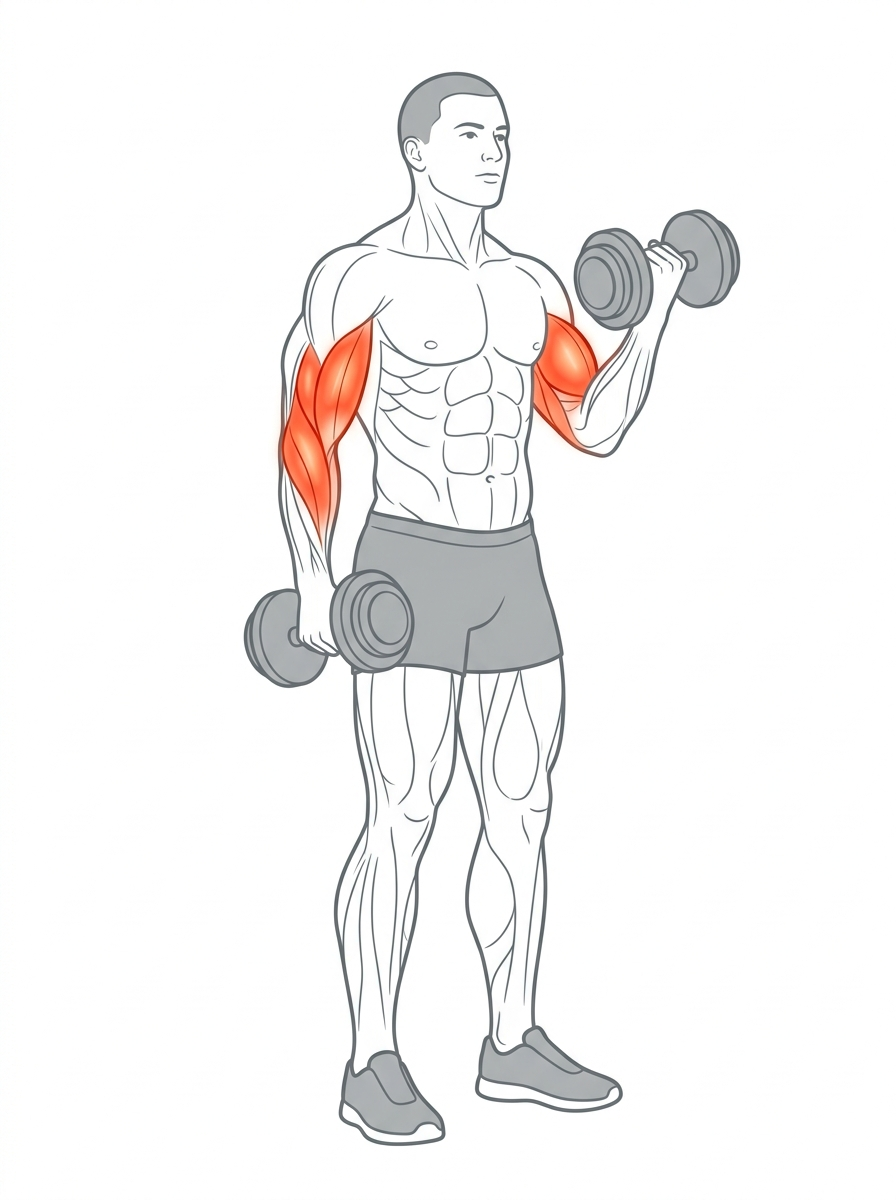
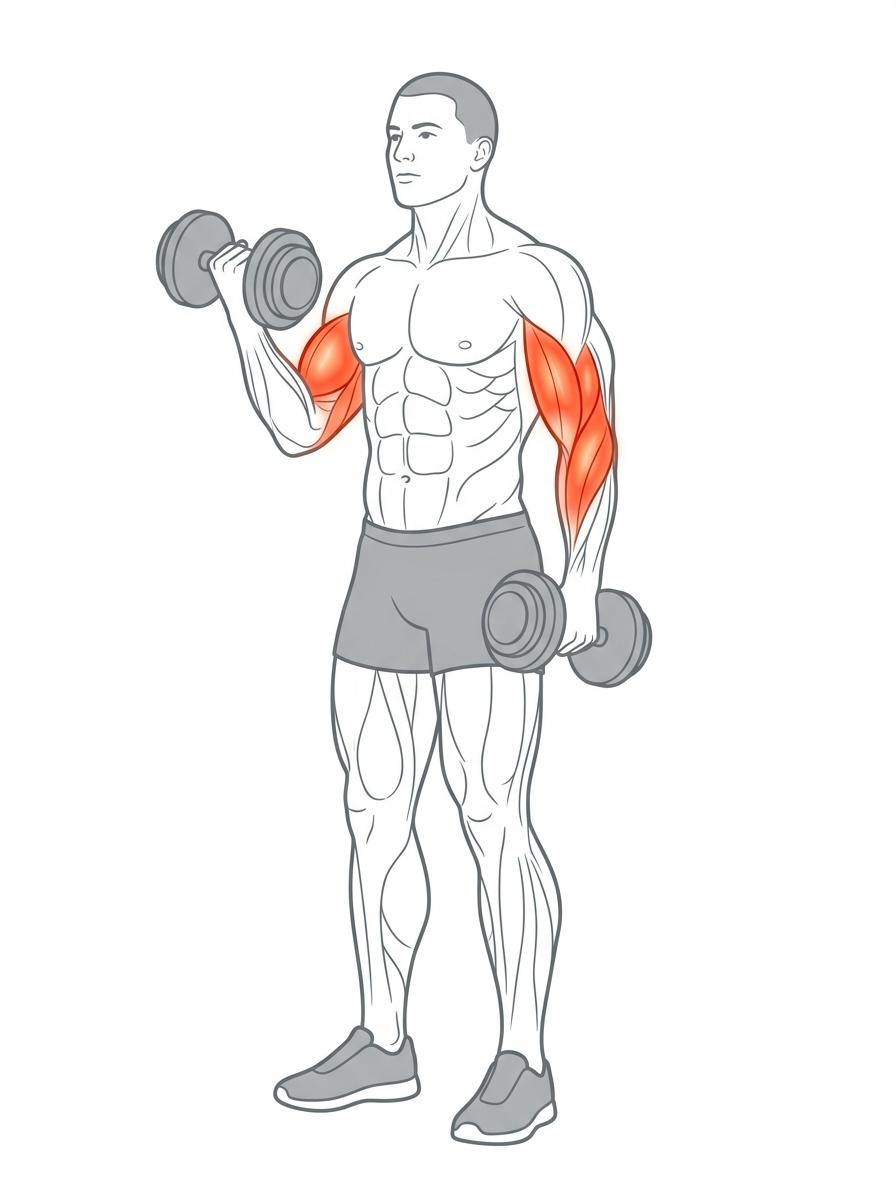
fix(exercises): eliminate all duplicate card images with dedicated anatomical illustrations and full-body variety order

Changed region(s): [[0.1562, 0.0617, 0.8438, 0.9558]]

diff --git a/components/GymHubModals.tsx b/components/GymHubModals.tsx
@@ -23,63 +23,15 @@ interface Exercise {
 
 const EXERCISES_DATA: Exercise[] = [
 	{
-		id: 'ex-bicep-1',
-		name: 'Dumbbell Biceps Curl',
-		muscle: 'Biceps',
-		target: 'Biceps Brachii (Short & Long Heads)',
-		setsReps: '4 Sets × 10–12 Reps',
-		equipment: 'Standing Free Weights / Dumbbells',
-		cue: 'Keep elbows tucked to ribs, curl smoothly without swinging torso, squeeze at top.',
-		level: 'Isolation',
-		image: '/exercises/dumbbell-bicep-curl.jpg',
-		biomechanicsId: 'bicep-curl'
-	},
-	{
-		id: 'ex-bicep-2',
-		name: 'Dumbbell Seated Curl',
-		muscle: 'Biceps',
-		target: 'Biceps Brachii Peak & Brachialis',
-		setsReps: '4 Sets × 10–12 Reps',
-		equipment: 'Utility Flat Bench + Heavy Dumbbells',
-		cue: 'Seated posture eliminates cheat momentum. Supinate wrists as you reach peak contraction.',
-		level: 'Isolation',
-		image: '/exercises/dumbbell-seated-curl.jpg',
-		biomechanicsId: 'bicep-curl'
-	},
-	{
-		id: 'ex-tricep-1',
-		name: 'Cable Single Arm Triceps Pushdown',
-		muscle: 'Triceps',
-		target: 'Triceps Brachii (Lateral & Medial Heads)',
-		setsReps: '4 Sets × 12–15 Reps',
-		equipment: 'Single Cable Pulley + Ergonomic Grip',
-		cue: 'Pin elbow firmly beside torso, drive handle downward to complete elbow extension.',
-		level: 'Isolation',
-		image: '/exercises/cable-tricep-pushdown.jpg',
-		biomechanicsId: 'tricep-pushdown'
-	},
-	{
-		id: 'ex-bicep-3',
-		name: 'Alternate Biceps Curl',
-		muscle: 'Biceps',
-		target: 'Biceps Brachii Hypertrophy',
-		setsReps: '4 Sets × 8–10 Reps',
-		equipment: 'Standing Dumbbells',
-		cue: 'Alternate arms deliberately, giving 100% focus and mind-muscle connection per side.',
-		level: 'Isolation',
-		image: '/exercises/alternate-bicep-curl.jpg',
-		biomechanicsId: 'bicep-curl'
-	},
-	{
 		id: 'ex-chest-1',
-		name: 'Incline Dumbbell Press',
+		name: 'Barbell Flat Bench Press',
 		muscle: 'Chest',
-		target: 'Clavicular Upper Pecs',
-		setsReps: '4 Sets × 8–10 Reps',
-		equipment: '30° Incline Bench, Heavy DBs',
-		cue: 'Retract scapula, keep elbows angled at 45°, feel deep eccentric stretch without bouncing.',
-		level: 'Heavy Mass',
-		image: '/exercises/card-incline-press.jpg',
+		target: 'Sternal Mid & Lower Pecs',
+		setsReps: '4 Sets × 6–8 Reps',
+		equipment: 'Olympic Barbell & Flat Bench',
+		cue: 'Drive feet into platform, touch lower sternum, and press explosively while maintaining scapular retraction.',
+		level: 'Compound',
+		image: '/exercises/card-flat-bench-press.jpg',
 		biomechanicsId: 'incline-press'
 	},
 	{
@@ -119,52 +71,100 @@ const EXERCISES_DATA: Exercise[] = [
 		biomechanicsId: 'shoulder-press'
 	},
 	{
-		id: 'ex-chest-2',
-		name: 'Barbell Flat Bench Press',
-		muscle: 'Chest',
-		target: 'Sternal Mid & Lower Pecs',
-		setsReps: '4 Sets × 6–8 Reps',
-		equipment: 'Olympic Barbell & Bench',
-		cue: 'Drive feet into platform, touch lower sternum and press explosively.',
-		level: 'Compound',
-		image: '/exercises/card-incline-press.jpg',
-		biomechanicsId: 'incline-press'
+		id: 'ex-bicep-1',
+		name: 'Dumbbell Biceps Curl',
+		muscle: 'Biceps',
+		target: 'Biceps Brachii (Short & Long Heads)',
+		setsReps: '4 Sets × 10–12 Reps',
+		equipment: 'Standing Free Weights / Dumbbells',
+		cue: 'Keep elbows tucked to ribs, curl smoothly without swinging torso, squeeze at top.',
+		level: 'Isolation',
+		image: '/exercises/dumbbell-bicep-curl.jpg',
+		biomechanicsId: 'bicep-curl'
 	},
 	{
-		id: 'ex-tricep-2',
-		name: 'Cable Tricep Rope Pushdown',
+		id: 'ex-tricep-1',
+		name: 'Cable Single Arm Triceps Pushdown',
 		muscle: 'Triceps',
-		target: 'Triceps Horseshoe Lateral Head',
+		target: 'Triceps Brachii (Lateral & Medial Heads)',
 		setsReps: '4 Sets × 12–15 Reps',
-		equipment: 'Cable Pulley Tower + Dual Knot Rope',
-		cue: 'Flare rope ends outward at bottom lockout for intense lateral head squeeze.',
+		equipment: 'Single Cable Pulley + Ergonomic Grip',
+		cue: 'Pin elbow firmly beside torso, drive handle downward to complete elbow extension.',
 		level: 'Isolation',
 		image: '/exercises/cable-tricep-pushdown.jpg',
 		biomechanicsId: 'tricep-pushdown'
 	},
 	{
-		id: 'ex-back-2',
-		name: 'Chest-Supported T-Bar Row',
-		muscle: 'Back',
-		target: 'Mid-Back & Rhomboid Thickness',
-		setsReps: '3 Sets × 10–12 Reps',
-		equipment: 'Plate-Loaded T-Bar Machine',
-		cue: 'Isolates back without lower back fatigue. Full stretch at bottom, squeeze traps at top.',
+		id: 'ex-chest-2',
+		name: '30° Incline Dumbbell Press',
+		muscle: 'Chest',
+		target: 'Clavicular Upper Pecs',
+		setsReps: '4 Sets × 8–10 Reps',
+		equipment: '30° Incline Bench, Heavy DBs',
+		cue: 'Retract scapula, keep elbows angled at 45°, feel deep eccentric stretch without bouncing.',
 		level: 'Heavy Mass',
-		image: '/exercises/card-lat-pulldown.jpg',
+		image: '/exercises/card-incline-press.jpg',
+		biomechanicsId: 'incline-press'
+	},
+	{
+		id: 'ex-back-2',
+		name: 'Seated Cable Low Row',
+		muscle: 'Back',
+		target: 'Mid-Back Rhomboids & Lats Thickness',
+		setsReps: '4 Sets × 10–12 Reps',
+		equipment: 'Cable Low Row Bench + V-Bar',
+		cue: 'Keep chest high, pull elbows straight back past torso, retract scapulae firmly.',
+		level: 'Heavy Mass',
+		image: '/exercises/card-seated-cable-row.jpg',
 		biomechanicsId: 'lat-pulldown'
 	},
 	{
-		id: 'ex-legs-2',
-		name: 'Linear 45° Leg Press',
-		muscle: 'Legs',
-		target: 'Quad Hypertrophy Volume',
+		id: 'ex-shoulder-2',
+		name: 'Dumbbell Lateral Raise',
+		muscle: 'Shoulders',
+		target: 'Lateral Deltoid Capped Width',
 		setsReps: '4 Sets × 12–15 Reps',
-		equipment: 'Plate-Loaded Leg Press',
-		cue: 'Feet shoulder-width on platform, control 3-second descent, do not lock knees at lockout.',
-		level: 'Compound',
-		image: '/exercises/card-barbell-squat.jpg',
-		biomechanicsId: 'barbell-squat'
+		equipment: 'Standing Dumbbells',
+		cue: 'Slight forward lean, raise arms in scapular plane with pinkies slightly higher, avoid shrugging.',
+		level: 'Isolation',
+		image: '/exercises/card-lateral-raise.jpg',
+		biomechanicsId: 'shoulder-press'
+	},
+	{
+		id: 'ex-bicep-2',
+		name: 'Dumbbell Seated Incline Curl',
+		muscle: 'Biceps',
+		target: 'Biceps Brachii Peak & Brachialis',
+		setsReps: '4 Sets × 10–12 Reps',
+		equipment: 'Utility Flat Bench + Heavy Dumbbells',
+		cue: 'Seated posture eliminates cheat momentum. Supinate wrists as you reach peak contraction.',
+		level: 'Isolation',
+		image: '/exercises/dumbbell-seated-curl.jpg',
+		biomechanicsId: 'bicep-curl'
+	},
+	{
+		id: 'ex-chest-3',
+		name: 'Standing Cable Pec Fly',
+		muscle: 'Chest',
+		target: 'Sternal Head & Inner Pec Crossover',
+		setsReps: '4 Sets × 12–15 Reps',
+		equipment: 'Dual Cable Pulley Tower',
+		cue: 'Bring handles across center line, feel maximal peak contraction on inner chest fibers.',
+		level: 'Isolation',
+		image: '/exercises/card-cable-pec-fly.jpg',
+		biomechanicsId: 'incline-press'
+	},
+	{
+		id: 'ex-bicep-3',
+		name: 'Alternate Dumbbell Biceps Curl',
+		muscle: 'Biceps',
+		target: 'Biceps Brachii Hypertrophy',
+		setsReps: '4 Sets × 8–10 Reps',
+		equipment: 'Standing Dumbbells',
+		cue: 'Alternate arms deliberately, giving 100% focus and mind-muscle connection per side.',
+		level: 'Isolation',
+		image: '/exercises/alternate-bicep-curl.jpg',
+		biomechanicsId: 'bicep-curl'
 	}
 ]
 
